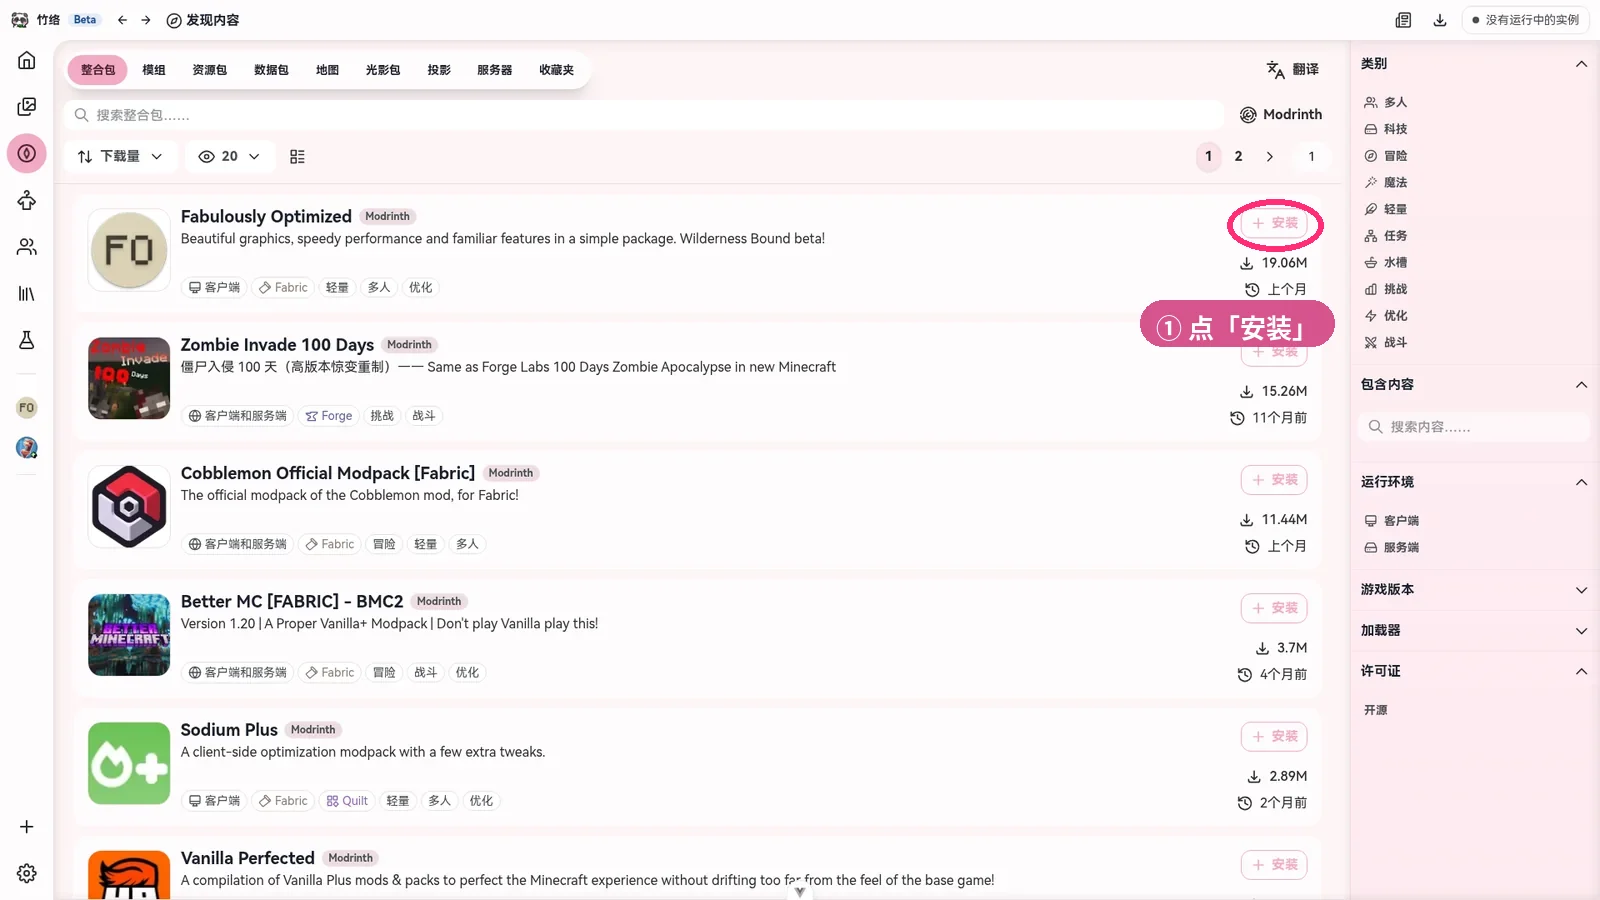
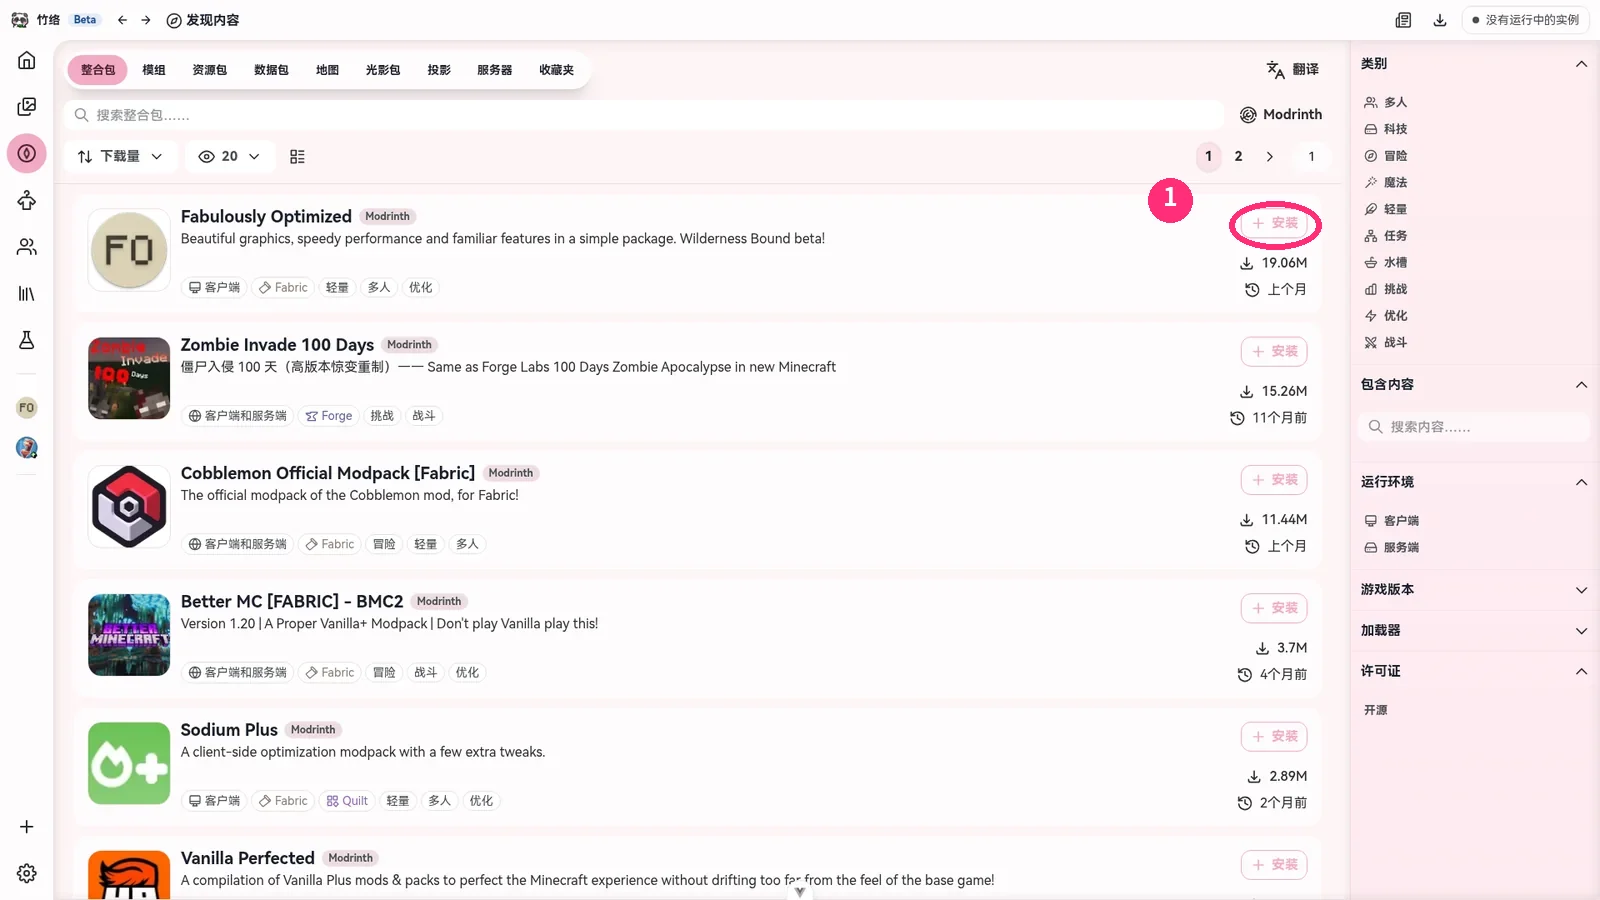
fix(docs): 截图标注改为数字徽标+红圈，图注对应编号

Changed region(s): [[0.6875, 0.3111, 0.8438, 0.4044], [0.7188, 0.1867, 0.8438, 0.28]]

diff --git a/tools/shots_annotate.py b/tools/shots_annotate.py
@@ -20,35 +20,49 @@ def ring(d, center, rx, ry, width=6, color=(255, 45, 120)):
     x, y = center
     d.ellipse((x - rx, y - ry, x + rx, y + ry), outline=color, width=width)
 
-def make(name, marks, out):
+def badge(d, xy, num, r=22, color=(255, 45, 120)):
+    f = ImageFont.truetype(FONT, int(r * 1.15), index=0)
+    x, y = xy
+    d.ellipse((x - r, y - r, x + r, y + r), fill=color)
+    tw = d.textlength(num, font=f)
+    d.text((x - tw / 2, y - r * 1.05), num, font=f, fill='white')
+
+def leader(d, label_box, target, color=(255, 45, 120, 255)):
+    lx = (label_box[0] + label_box[2]) / 2
+    ly = label_box[1] if target[1] < label_box[1] else label_box[3]
+    d.line((lx, ly, target[0], target[1]), fill=color, width=3)
+
+def make(name, marks, out, pad_bottom=0):
     im = Image.open(f'{SRC}/{name}.webp').convert('RGB')
+    if pad_bottom:
+        bg = im.getpixel((5, im.height - 5))
+        canvas = Image.new('RGB', (im.width, im.height + pad_bottom), bg)
+        canvas.paste(im, (0, 0))
+        im = canvas
     d = ImageDraw.Draw(im, 'RGBA')
     for m in marks:
         c = m['at']; rx, ry = m['r']
         ring(d, c, rx, ry, color=(255, 45, 120, 255))
-        pill(d, (m['lx'], m['ly']), m['label'])
+        if m.get('badge'):
+            badge(d, m['badge'], m['num'])
     im.save(out, 'WEBP', quality=86, method=6)
     print('saved', out, im.size)
 
 OUT = 'docs/.vuepress/public/shots'
 
-# 1. 发现内容：安装按钮
 make('browse', [
-    {'at': (1275, 225), 'r': (48, 26), 'label': '① 点「安装」', 'lx': 1140, 'ly': 300},
+    {'at': (1275, 225), 'r': (46, 24), 'num': '1', 'badge': (1170, 200)},
 ], f'{OUT}/gui-browse-install.webp')
 
-# 2. 游戏库：创建实例
 make('library', [
-    {'at': (1262, 124), 'r': (62, 26), 'label': '① 点「创建新实例」', 'lx': 1010, 'ly': 165},
+    {'at': (1262, 124), 'r': (58, 24), 'num': '1', 'badge': (1310, 172)},
 ], f'{OUT}/gui-create-instance.webp')
 
-# 3. 实例详情：启动 + 内容
 make('instance', [
-    {'at': (1202, 74), 'r': (70, 28), 'label': '① 点「开始游戏」', 'lx': 900, 'ly': 112},
-    {'at': (100, 146), 'r': (44, 22), 'label': '② 内容页：装模组/资源包', 'lx': 210, 'ly': 190},
+    {'at': (1202, 74), 'r': (66, 26), 'num': '1', 'badge': (1255, 132)},
+    {'at': (100, 146), 'r': (42, 20), 'num': '2', 'badge': (52, 105)},
 ], f'{OUT}/gui-instance-start.webp')
 
-# 4. 设置：Java 与性能
 make('settings', [
-    {'at': (66, 450), 'r': (58, 20), 'label': '① 选「Java 与性能」', 'lx': 300, 'ly': 424},
+    {'at': (120, 450), 'r': (76, 16), 'num': '1', 'badge': (62, 428)},
 ], f'{OUT}/gui-settings-java.webp')

diff --git a/docs/docs/content/browse-search.md b/docs/docs/content/browse-search.md
@@ -18,8 +18,8 @@ createTime: 2026/11/27 17:36:45
 | **资源包 (Resource Packs)** | 换游戏外观、音效 | 想让画面更好看可以试试 |
 | **光影 (Shader Packs)** | 画质特效，非常吃配置 | 电脑配置一般的话先别碰 |
 
-<a class="doc-shot-link" href="/shots/gui-browse-install.webp" target="_blank" rel="noopener"><img class="doc-shot" src="/shots/gui-browse-install.webp" alt="发现内容页：左边选类型，条目右侧就是「安装」，点了要选装进哪个实例" /></a>
-<p class="shot-cap">发现内容页：左边选类型，条目右侧就是「安装」，点了要选装进哪个实例 · 点图可看大图</p>
+<a class="doc-shot-link" href="/shots/gui-browse-install.webp" target="_blank" rel="noopener"><img class="doc-shot" src="/shots/gui-browse-install.webp" alt="① 发现内容页：左边先选类型，条目右侧就是「安装」，点完要选装进哪个实例" /></a>
+<p class="shot-cap">① 发现内容页：左边先选类型，条目右侧就是「安装」，点完要选装进哪个实例 · 点图可看大图</p>
 
 ## 搜索
 

diff --git a/docs/docs/instance/settings.md b/docs/docs/instance/settings.md
@@ -55,8 +55,8 @@ createTime: 2026/11/27 17:36:45
 
 内存分配在 **默认实例选项** 里调（自动 or 手动指定最大内存），还可以开「启动前内存优化」。
 
-<a class="doc-shot-link" href="/shots/gui-settings-java.webp" target="_blank" rel="noopener"><img class="doc-shot" src="/shots/gui-settings-java.webp" alt="设置 → 游戏分组 → Java 与性能：装推荐版本、检测本机 Java、手动指定路径" /></a>
-<p class="shot-cap">设置 → 游戏分组 → Java 与性能：装推荐版本、检测本机 Java、手动指定路径 · 点图可看大图</p>
+<a class="doc-shot-link" href="/shots/gui-settings-java.webp" target="_blank" rel="noopener"><img class="doc-shot" src="/shots/gui-settings-java.webp" alt="① 设置左侧栏「游戏」分组里的「Java 与性能」：装推荐版本 / 检测本机 Java / 手动指定路径" /></a>
+<p class="shot-cap">① 设置左侧栏「游戏」分组里的「Java 与性能」：装推荐版本 / 检测本机 Java / 手动指定路径 · 点图可看大图</p>
 
 ### 内容与下载
 

diff --git a/docs/docs/instance/instance-details.md b/docs/docs/instance/instance-details.md
@@ -19,8 +19,8 @@ createTime: 2026/11/27 17:36:45
 - **启动 / 停止**按钮（启动游戏就点这里）
 - 如果这个实例有更新，这里也能看到
 
-<a class="doc-shot-link" href="/shots/gui-instance-start.webp" target="_blank" rel="noopener"><img class="doc-shot" src="/shots/gui-instance-start.webp" alt="实例详情页：右上角「开始游戏」，下面一排是内容 / 文件 / 截图 / 世界 / 日志" /></a>
-<p class="shot-cap">实例详情页：右上角「开始游戏」，下面一排是内容 / 文件 / 截图 / 世界 / 日志 · 点图可看大图</p>
+<a class="doc-shot-link" href="/shots/gui-instance-start.webp" target="_blank" rel="noopener"><img class="doc-shot" src="/shots/gui-instance-start.webp" alt="①「开始游戏」在右上角；② 下面这一排是内容 / 文件 / 截图 / 世界 / 日志" /></a>
+<p class="shot-cap">①「开始游戏」在右上角；② 下面这一排是内容 / 文件 / 截图 / 世界 / 日志 · 点图可看大图</p>
 
 ## 模组 (Mods)
 

diff --git a/docs/docs/instance/create-instance.md b/docs/docs/instance/create-instance.md
@@ -49,8 +49,8 @@ Minecraft 更新了很多年，有好多版本：1.20、1.21、26.1、26.2……
 4. 起个名字：比如“我的生存世界”，也可以改个好看的图标
 5. 点击**创建**
 
-<a class="doc-shot-link" href="/shots/gui-create-instance.webp" target="_blank" rel="noopener"><img class="doc-shot" src="/shots/gui-create-instance.webp" alt="游戏库右上角：创建新实例入口，所有实例都从这里长出来" /></a>
-<p class="shot-cap">游戏库右上角：创建新实例入口，所有实例都从这里长出来 · 点图可看大图</p>
+<a class="doc-shot-link" href="/shots/gui-create-instance.webp" target="_blank" rel="noopener"><img class="doc-shot" src="/shots/gui-create-instance.webp" alt="① 游戏库右上角：所有实例都从「创建新实例」长出来" /></a>
+<p class="shot-cap">① 游戏库右上角：所有实例都从「创建新实例」长出来 · 点图可看大图</p>
 
 ## 第一次启动
 
